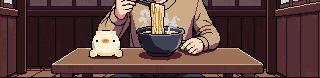
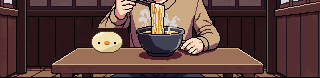
PRコメント対応: きーを手足なしの楕円に、峠道をカーブに、囲炉裏と土鍋の土星
- きー/ぴー: 正面も横も楕円のつぶれた饅頭。手足なし、鼻の穴なし。歩きは小さく跳ねてつぶれる
- 峠道: 曲線(Catmull-Rom)に沿って1ドット単位で道と雪の土手を描く。センターラインも曲線に沿う
- ぴーの古タイヤを描き直し。話しかけると「古タイヤをみつけたらおしえろ」
- 最後の「だざいおさむん」をやめ、走り去る車の絵のあとそのまま帰る
- 煮ているのは土星: 囲炉裏の土鍋に、輪のある土星が浮いている一枚絵。囲炉裏を店内に追加
- ちゃんの席の一枚絵のきーも新しい形に

Claude-Session: https://claude.ai/code/session_01CdRwgmiiRbABwrAE7HmzdN

Changed region(s): [[0.25, 0.359, 0.4062, 0.7692]]

diff --git a/field/worlds.js b/field/worlds.js
@@ -15,7 +15,8 @@
     bare: { img: "s_pine2", w: 64, h: 96, top: 17, bottom: 77, solid: [12, 8] },
     car: { img: "s_car", w: 96, h: 64, top: 10, bottom: 57, solid: [64, 22] },
     houtou: { img: "s_houtou", w: 160, h: 128, top: 10, bottom: 118, solid: [118, 44] },
-    tires: { img: "s_tires", w: 48, h: 48, top: 12, bottom: 37, solid: [22, 10] },
+    tires: { img: "s_tires", w: 64, h: 48, top: 8, bottom: 40, solid: [44, 12] },
+    irori: { img: "k_irori", w: 96, h: 96, top: 7, bottom: 90, solid: [66, 40] },
     sign: { img: "s_sign", w: 32, h: 64, top: 2, bottom: 62, solid: [8, 6] },
     shard: { img: "s_shard", w: 32, h: 32, top: 4, bottom: 26 },
     kamado: { img: "k_kamado", w: 128, h: 64, top: 4, bottom: 60, solid: [72, 26] },
@@ -51,25 +52,36 @@
   // ---- 峠道: 曲がりくねった道を北へのぼると、富士山が見えてくる ----
   const ROAD_COLS = 15;
   const ROAD_ROWS = 60;
-  const ROAD_PATH = [[59, 7], [50, 7], [50, 3], [42, 3], [42, 11], [33, 11], [33, 4], [25, 4], [25, 10], [17, 10], [17, 6], [10, 6], [10, 14]];
+  // 道が通る点(行, 列)。この点をなめらかな曲線(Catmull-Rom)でつなぐ
+  const ROAD_POINTS = [[61, 7], [55, 7], [50, 5.5], [46, 3.5], [42, 4], [39, 7], [36, 10.5], [32, 11], [28, 9], [25, 5], [21, 3.5], [17, 5], [14, 8.5], [11.5, 11], [10.5, 13], [10.5, 16]];
+  const ROAD_WIDTH = 1.5; // 中心線から道の端まで(マス)
+
+  function catmullRom(points, step) {
+    const out = [];
+    for (let i = 0; i < points.length - 1; i++) {
+      const p0 = points[Math.max(0, i - 1)];
+      const p1 = points[i];
+      const p2 = points[i + 1];
+      const p3 = points[Math.min(points.length - 1, i + 2)];
+      for (let t = 0; t < 1; t += step) {
+        const t2 = t * t;
+        const t3 = t2 * t;
+        const f = (a, b, c, d) => 0.5 * (2 * b + (-a + c) * t + (2 * a - 5 * b + 4 * c - d) * t2 + (-a + 3 * b - 3 * c + d) * t3);
+        out.push([f(p0[0], p1[0], p2[0], p3[0]), f(p0[1], p1[1], p2[1], p3[1])]);
+      }
+    }
+    out.push(points[points.length - 1]);
+    return out;
+  }
+
+  const ROAD_CURVE = catmullRom(ROAD_POINTS, 0.05);
 
   function roadGrid() {
     const g = [];
     for (let r = 0; r < ROAD_ROWS; r++) g.push(Array(ROAD_COLS).fill(r < 8 ? "#" : "."));
-    const paint = (r, c) => {
-      for (let dr = -1; dr <= 1; dr++)
-        for (let dc = -1; dc <= 1; dc++) {
-          const rr = r + dr;
-          const cc = c + dc;
-          if (rr >= 8 && rr < ROAD_ROWS && cc >= 0 && cc < ROAD_COLS) g[rr][cc] = "=";
-        }
-    };
-    for (let i = 0; i < ROAD_PATH.length - 1; i++) {
-      const [r0, c0] = ROAD_PATH[i];
-      const [r1, c1] = ROAD_PATH[i + 1];
-      const steps = Math.max(Math.abs(r1 - r0), Math.abs(c1 - c0));
-      for (let s = 0; s <= steps; s++) {
-        paint(Math.round(r0 + ((r1 - r0) * s) / steps), Math.round(c0 + ((c1 - c0) * s) / steps));
+    for (let r = 8; r < ROAD_ROWS; r++) {
+      for (let c = 0; c < ROAD_COLS; c++) {
+        if (ROAD_CURVE.some(([pr, pc]) => Math.hypot(pr - r, pc - c) <= ROAD_WIDTH)) g[r][c] = "=";
       }
     }
     return g.map((row) => row.join(""));
@@ -94,6 +106,74 @@
       }
       run += len;
     }
+  }
+
+  // 曲がった道を1ドット単位で描いた下絵(一度だけ作る)。
+  // マス目のタイルだと縁が階段になるので、道は曲線に沿って円を押していって描く。
+  function buildRoadLayer(tileImg, curve, cols, rows, fromRow) {
+    const W = cols * T;
+    const H = rows * T;
+    const tex = document.createElement("canvas");
+    tex.width = T;
+    tex.height = T;
+    const tctx = tex.getContext("2d");
+    tctx.drawImage(tileImg, 2 * T, 1 * T, T, T, 0, 0, T, T); // 全面が道のタイル(角 0000)
+    const texData = tctx.getImageData(0, 0, T, T).data;
+    const mask = new Uint8Array(W * H); // 0: なし 1: 雪の土手 2: 道
+    const INNER = 44;
+    const OUTER = 48;
+    const pts = [];
+    for (let i = 0; i < curve.length - 1; i++) {
+      const [r0, c0] = curve[i];
+      const [r1, c1] = curve[i + 1];
+      const x0 = (c0 + 0.5) * T;
+      const y0 = (r0 + 0.5) * T;
+      const x1 = (c1 + 0.5) * T;
+      const y1 = (r1 + 0.5) * T;
+      const n = Math.max(1, Math.ceil(Math.hypot(x1 - x0, y1 - y0) / 2));
+      for (let k = 0; k < n; k++) pts.push([x0 + ((x1 - x0) * k) / n, y0 + ((y1 - y0) * k) / n]);
+    }
+    const stamp = (r, v) => {
+      for (const [px, py] of pts) {
+        for (let y = Math.max(fromRow * T, Math.floor(py - r)); y <= Math.min(H - 1, py + r); y++) {
+          for (let x = Math.max(0, Math.floor(px - r)); x <= Math.min(W - 1, px + r); x++) {
+            if ((x + 0.5 - px) ** 2 + (y + 0.5 - py) ** 2 <= r * r && mask[y * W + x] < v) mask[y * W + x] = v;
+          }
+        }
+      }
+    };
+    stamp(INNER, 2);
+    stamp(OUTER, 1);
+    const out = document.createElement("canvas");
+    out.width = W;
+    out.height = H;
+    const octx = out.getContext("2d");
+    const img = octx.createImageData(W, H);
+    const d = img.data;
+    for (let y = 0; y < H; y++) {
+      for (let x = 0; x < W; x++) {
+        const m = mask[y * W + x];
+        if (!m) continue;
+        const o = (y * W + x) * 4;
+        if (m === 2) {
+          const t = ((y % T) * T + (x % T)) * 4;
+          d[o] = texData[t];
+          d[o + 1] = texData[t + 1];
+          d[o + 2] = texData[t + 2];
+        } else {
+          // 土手: 道に近い側は影、雪との境目は輪郭
+          const edge = x > 0 && x < W - 1 && y > 0 && y < H - 1 && [mask[o / 4 - 1], mask[o / 4 + 1], mask[o / 4 - W], mask[o / 4 + W]].includes(0);
+          const inner = [mask[o / 4 - 1], mask[o / 4 + 1], mask[o / 4 - W], mask[o / 4 + W]].includes(2);
+          const c = edge ? [150, 184, 204] : inner ? [196, 218, 230] : [238, 246, 250];
+          d[o] = c[0];
+          d[o + 1] = c[1];
+          d[o + 2] = c[2];
+        }
+        d[o + 3] = 255;
+      }
+    }
+    octx.putImageData(img, 0, 0);
+    return out;
   }
 
   function nearRoad(grid, r, c, d) {
@@ -134,12 +214,18 @@
     legend: {
       "#": { solid: true, none: true },
       ".": { wang: "road" },
-      "=": { wang: "road", lowerOf: ["road"] },
+      "=": { wang: "road" }, // 道そのものは drawGround で描く
     },
     wang: { road: { img: "wang_road", size: 32, lookup: WANG16 } },
     backdrop: { img: "fuji", x: 0, y: 16, scale: 2 },
-    drawGround(ctx, ox, oy) {
-      centerLine(ctx, ox, oy, ROAD_PATH.map(([r, c]) => [(c + 0.5) * T, (r + 0.5) * T]).concat([[15.5 * T, 10.5 * T]]));
+    drawGround(ctx, ox, oy, img) {
+      if (!this.layer) {
+        const tile = img("wang_road");
+        if (!tile) return;
+        this.layer = buildRoadLayer(tile, ROAD_CURVE, ROAD_COLS, ROAD_ROWS, 8);
+      }
+      ctx.drawImage(this.layer, ox, oy);
+      centerLine(ctx, ox, oy, ROAD_CURVE.filter(([r]) => r > 8).map(([r, c]) => [(c + 0.5) * T, (r + 0.5) * T]));
     },
     spawns: {
       start: { x: 7.5 * T, y: 58.5 * T, facing: "north" },
@@ -161,11 +247,11 @@
       { id: "toLake", x: 14.3 * T, y: 8 * T, w: T, h: 4 * T, warp: { map: "lake", spawn: "west" } },
     ],
     objects: [
-      at("sign", 9.6 * T, 51.9 * T),
-      at("sign", 1.4 * T, 41.9 * T),
-      at("sign", 13.4 * T, 34.9 * T),
-      at("sign", 2.4 * T, 24.9 * T),
-      at("tires", 7.2 * T, 45.4 * T),
+      // カーブの外側の標識(道の上に来るものは置かない)
+      ...[[48.9, 1.5], [37.9, 13.4], [26.9, 8.6], [19.9, 1.3], [13.9, 12.4]]
+        .filter(([r, c]) => roadMapGrid[Math.floor(r)][Math.floor(c)] === ".")
+        .map(([r, c]) => at("sign", c * T, r * T)),
+      at("tires", 7 * T, 45.5 * T),
       Object.assign(
         {
           id: "pi",
@@ -183,7 +269,7 @@
             api.bubble("pi", "どけ");
           },
           interact(api) {
-            api.bubble("pi", "おれのだ");
+            api.bubble("pi", "古タイヤをみつけたらおしえろ", 3600);
           },
         },
         {}
@@ -321,9 +407,12 @@
     spawns: { door: { x: 3.5 * T, y: 8.4 * T, facing: "north" } },
     triggers: [{ id: "out", x: 2 * T, y: 9.4 * T, w: 3 * T, h: T, warp: { map: "lake", spawn: "door" } }],
     objects: [
-      at("kamado", 3 * T, 3.9 * T, {
+      at("kamado", 3 * T, 3.9 * T),
+      // 囲炉裏。自在鉤に吊った土鍋で、土星を煮ている(水に浮くから)
+      at("irori", 11.9 * T, 7.4 * T, {
         id: "pot",
-        range: 40,
+        headY: 40,
+        range: 44,
         interact(api) {
           api.show("v_pot");
         },
@@ -346,7 +435,7 @@
         },
       }),
       // ちゃんの座布団
-      at("zabuton", 9.5 * T, 4.4 * T, {
+      at("zabuton", 8.3 * T, 4.4 * T, {
         id: "chair",
         sortDy: -20,
         range: 30,
@@ -361,18 +450,15 @@
             api.show("v_table", () => {
               api.setFlag("ate");
               api.later(500, () =>
-                api.show("v_road", () => {
-                  api.mutter("だざいおさむん", 3000);
-                  api.later(2600, () => api.exit());
-                })
+                api.show("v_road", () => api.later(700, () => api.exit()))
               );
             })
           );
         },
       }),
-      at("chabudai", 9.5 * T, 6.3 * T),
+      at("chabudai", 8.3 * T, 6.3 * T),
       // きーの小さな座布団
-      at("zabutonS", 9.5 * T, 7.7 * T, { sortDy: -20 }),
+      at("zabutonS", 8.3 * T, 7.7 * T, { sortDy: -20 }),
       {
         id: "noren",
         x: 3.5 * T,
@@ -419,6 +505,7 @@
         k_zabuton_s: "k_zabuton_s.png",
         k_tansu: "k_tansu.png",
         k_post: "k_post.png",
+        k_irori: "k_irori.png",
         i_radio: "i_radio.png",
         v_window: "v_window.png",
         v_table: "v_table.png",

diff --git a/field/index.html b/field/index.html
@@ -8,7 +8,7 @@
   <meta name="apple-mobile-web-app-status-bar-style" content="black-translucent">
   <meta name="mobile-web-app-capable" content="yes">
   <title>ぼぎだぢ - 懲罰空間</title>
-  <link rel="stylesheet" href="./style.css?v=5">
+  <link rel="stylesheet" href="./style.css?v=6">
 </head>
 <body>
   <header class="field-header">
@@ -78,8 +78,8 @@
     <small>© Character Project</small>
   </footer>
 
-  <script src="./rpg.js?v=5"></script>
-  <script src="./worlds.js?v=5"></script>
-  <script src="./script.js?v=5"></script>
+  <script src="./rpg.js?v=6"></script>
+  <script src="./worlds.js?v=6"></script>
+  <script src="./script.js?v=6"></script>
 </body>
 </html>

diff --git a/field/rpg.js b/field/rpg.js
@@ -404,7 +404,7 @@
         }
       }
 
-      if (map.drawGround) map.drawGround(ctx, ox, oy);
+      if (map.drawGround) map.drawGround(ctx, ox, oy, img);
 
       // y順に並べて、手前のものほど後に描く
       const drawables = visibleObjects().map((o) => ({ y: o.y + (o.sortDy || 0), o }));

diff --git a/docs/bogidachi.md b/docs/bogidachi.md
@@ -120,9 +120,9 @@
 - **言葉の優先順位**: 作者の言葉が正典。つじつまを合わせるために設定を足さない。AI(Claude)が足すものは、デペイズマンの素材(本来出会わないもの同士を並べて違和感を起こす)として出し、PRで作者が採否を決める。
 - **ファイル**: エンジンは `field/rpg.js`、世界の中身(マップ・オブジェクト・台詞・条件)は `field/worlds.js`、素材は `field/assets/worlds/<世界id>/`。懲罰空間側の断片には `world: "<世界id>"` を付ける。
 - **状態の保存**: もちもの・ことば・探索ずみの世界・フラグを `localStorage`(`bogidachi.field.v1`)に保存する。保存できない環境では、その回かぎり。
-- **言葉は少なく(作者の方針)**: 説明しない。世界は少しずつ現れる。きーはあまり話さず、意味のわからない固有名詞(「ちゃん」「ほうとう」「だざいおさむん」)をつぶやくだけ。意味は、絵と体験で少しずつわかるようにする(例: 車の窓で「ちゃん」→ 最初は ちゃん=車? → ほうとう屋のちゃんの席で、人だったとわかる)。旅の記憶は一枚絵で見せる。
+- **言葉は少なく(作者の方針)**: 説明しない。世界は少しずつ現れる。きーはあまり話さず、意味のわからない固有名詞(「ちゃん」「ほうとう」)をつぶやくだけ。「だざいおさむん」は、まだ言わせない(作者)。意味は、絵と体験で少しずつわかるようにする(例: 車の窓で「ちゃん」→ 最初は ちゃん=車? → ほうとう屋のちゃんの席で、人だったとわかる)。旅の記憶は一枚絵で見せる。
 - **見せる道具**: 吹き出し `api.bubble()` / きーのつぶやき `api.mutter()`、一枚絵 `api.show()`、カメラ `api.pan()`(景色が開ける演出)、マップ間の出入口 `warp`。長い文章の `say()` はなるべく使わない。
-- **きーの見た目(作者)**: 正面から見ると円、横から見ると楕円。つぶれた饅頭のような形。手足もクリーム色。耳はない。目は鼻と同じ高さの、真っ黒な点。ぴーは同型の色違い(ピンク)。スプライトはこの指定どおりにドットで描いている(`field/assets/worlds/lake/ki_walk.png`)。
+- **きーの見た目(作者)**: つぶれた饅頭のような形。正面から見ても横から見ても楕円。手足はない。耳はない。鼻の穴はない。目は鼻と同じ高さの、真っ黒な点。ぴーは同型の色違い(ピンク)。スプライトはこの指定どおりにドットで描いている(`field/assets/worlds/lake/ki_walk.png`)。
 - **ビジュアル(作者の方針)**: スーパーファミコン時代のドット絵。キャラは64×64、マップチップは32×32。世界は2倍に拡大して描く(`rpg.js` の `ZOOM`)。
 
 ### できている断片

diff --git a/bogidoc/ぼぎだぢ_設定統合.md b/bogidoc/ぼぎだぢ_設定統合.md
@@ -87,6 +87,10 @@
 
 > （PRコメントより）きーは正面から見たときに、円。横から見たときは楕円。つぶれた饅頭のような形。手足もクリーム色。耳はいらない。目は鼻と同じ高さで真っ黒なドット。
 
+> （PRコメントより）きーは正面から見ても楕円。手足は取ろう。鼻の穴のドットもいらない。横向いた時の鼻の穴相当の黒いドットもいらない。
+>
+> 煮ているのは土星。水に浮くから。あとわっかがあるのでわかりやすい。土鍋の中にどせいがあるような絵にして。
+
 ---
 
 ## 2. 索引（作者の言葉だけで引ける形）
